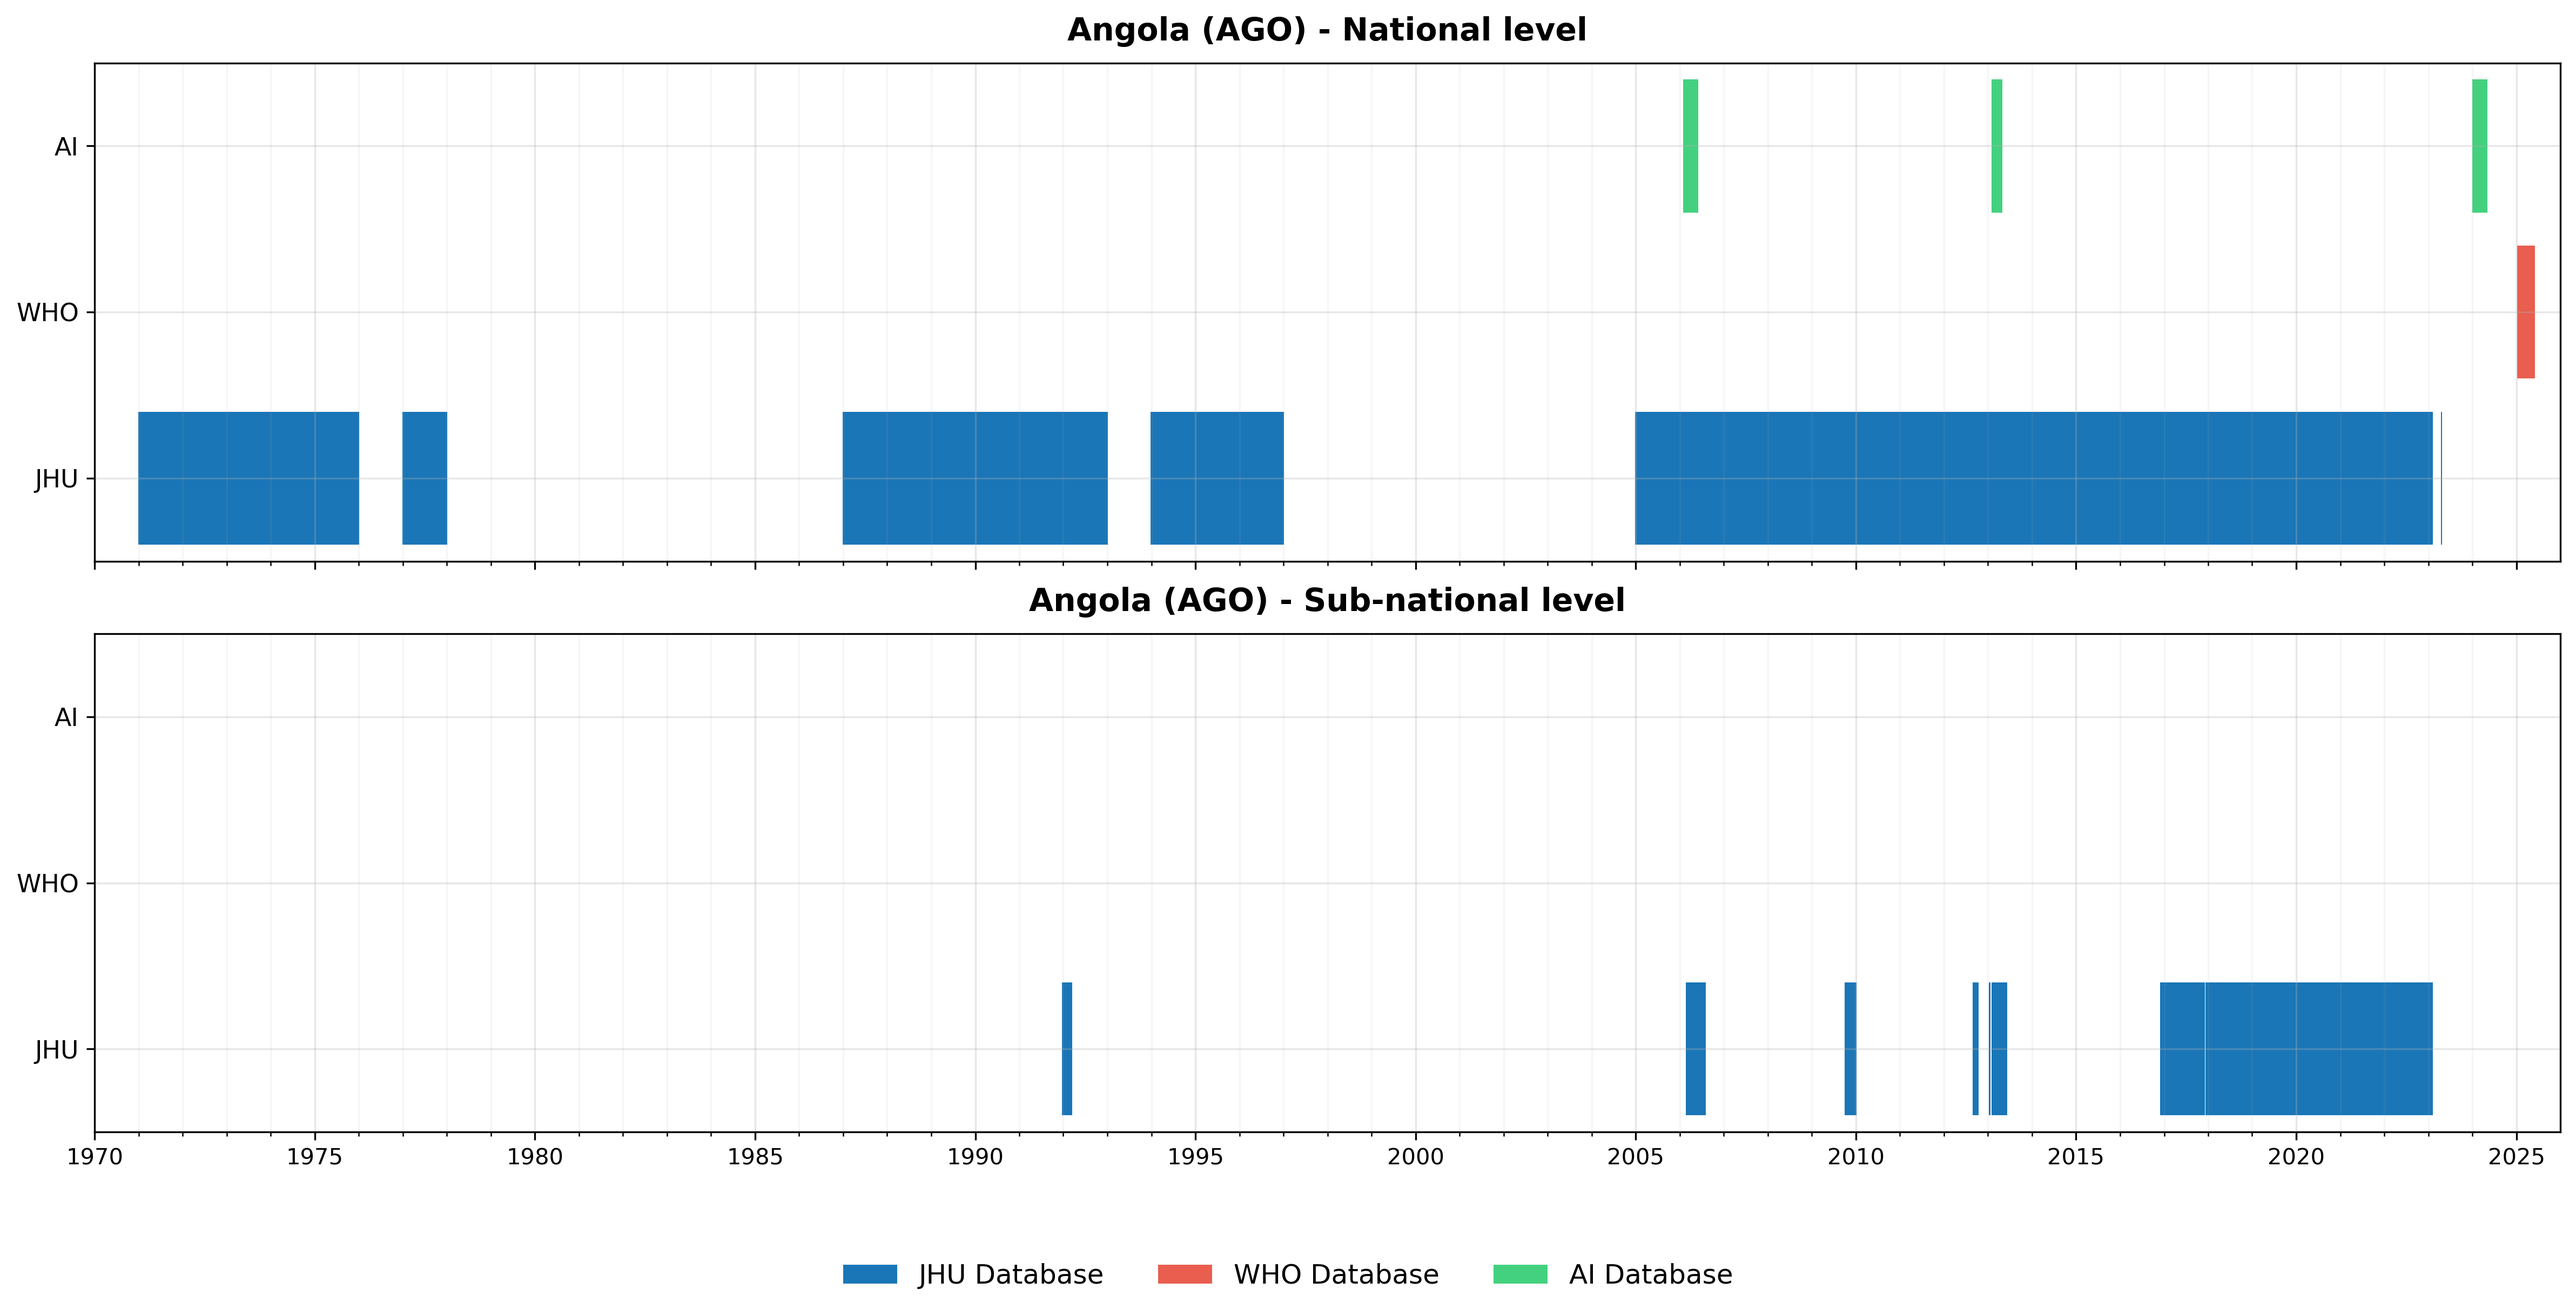
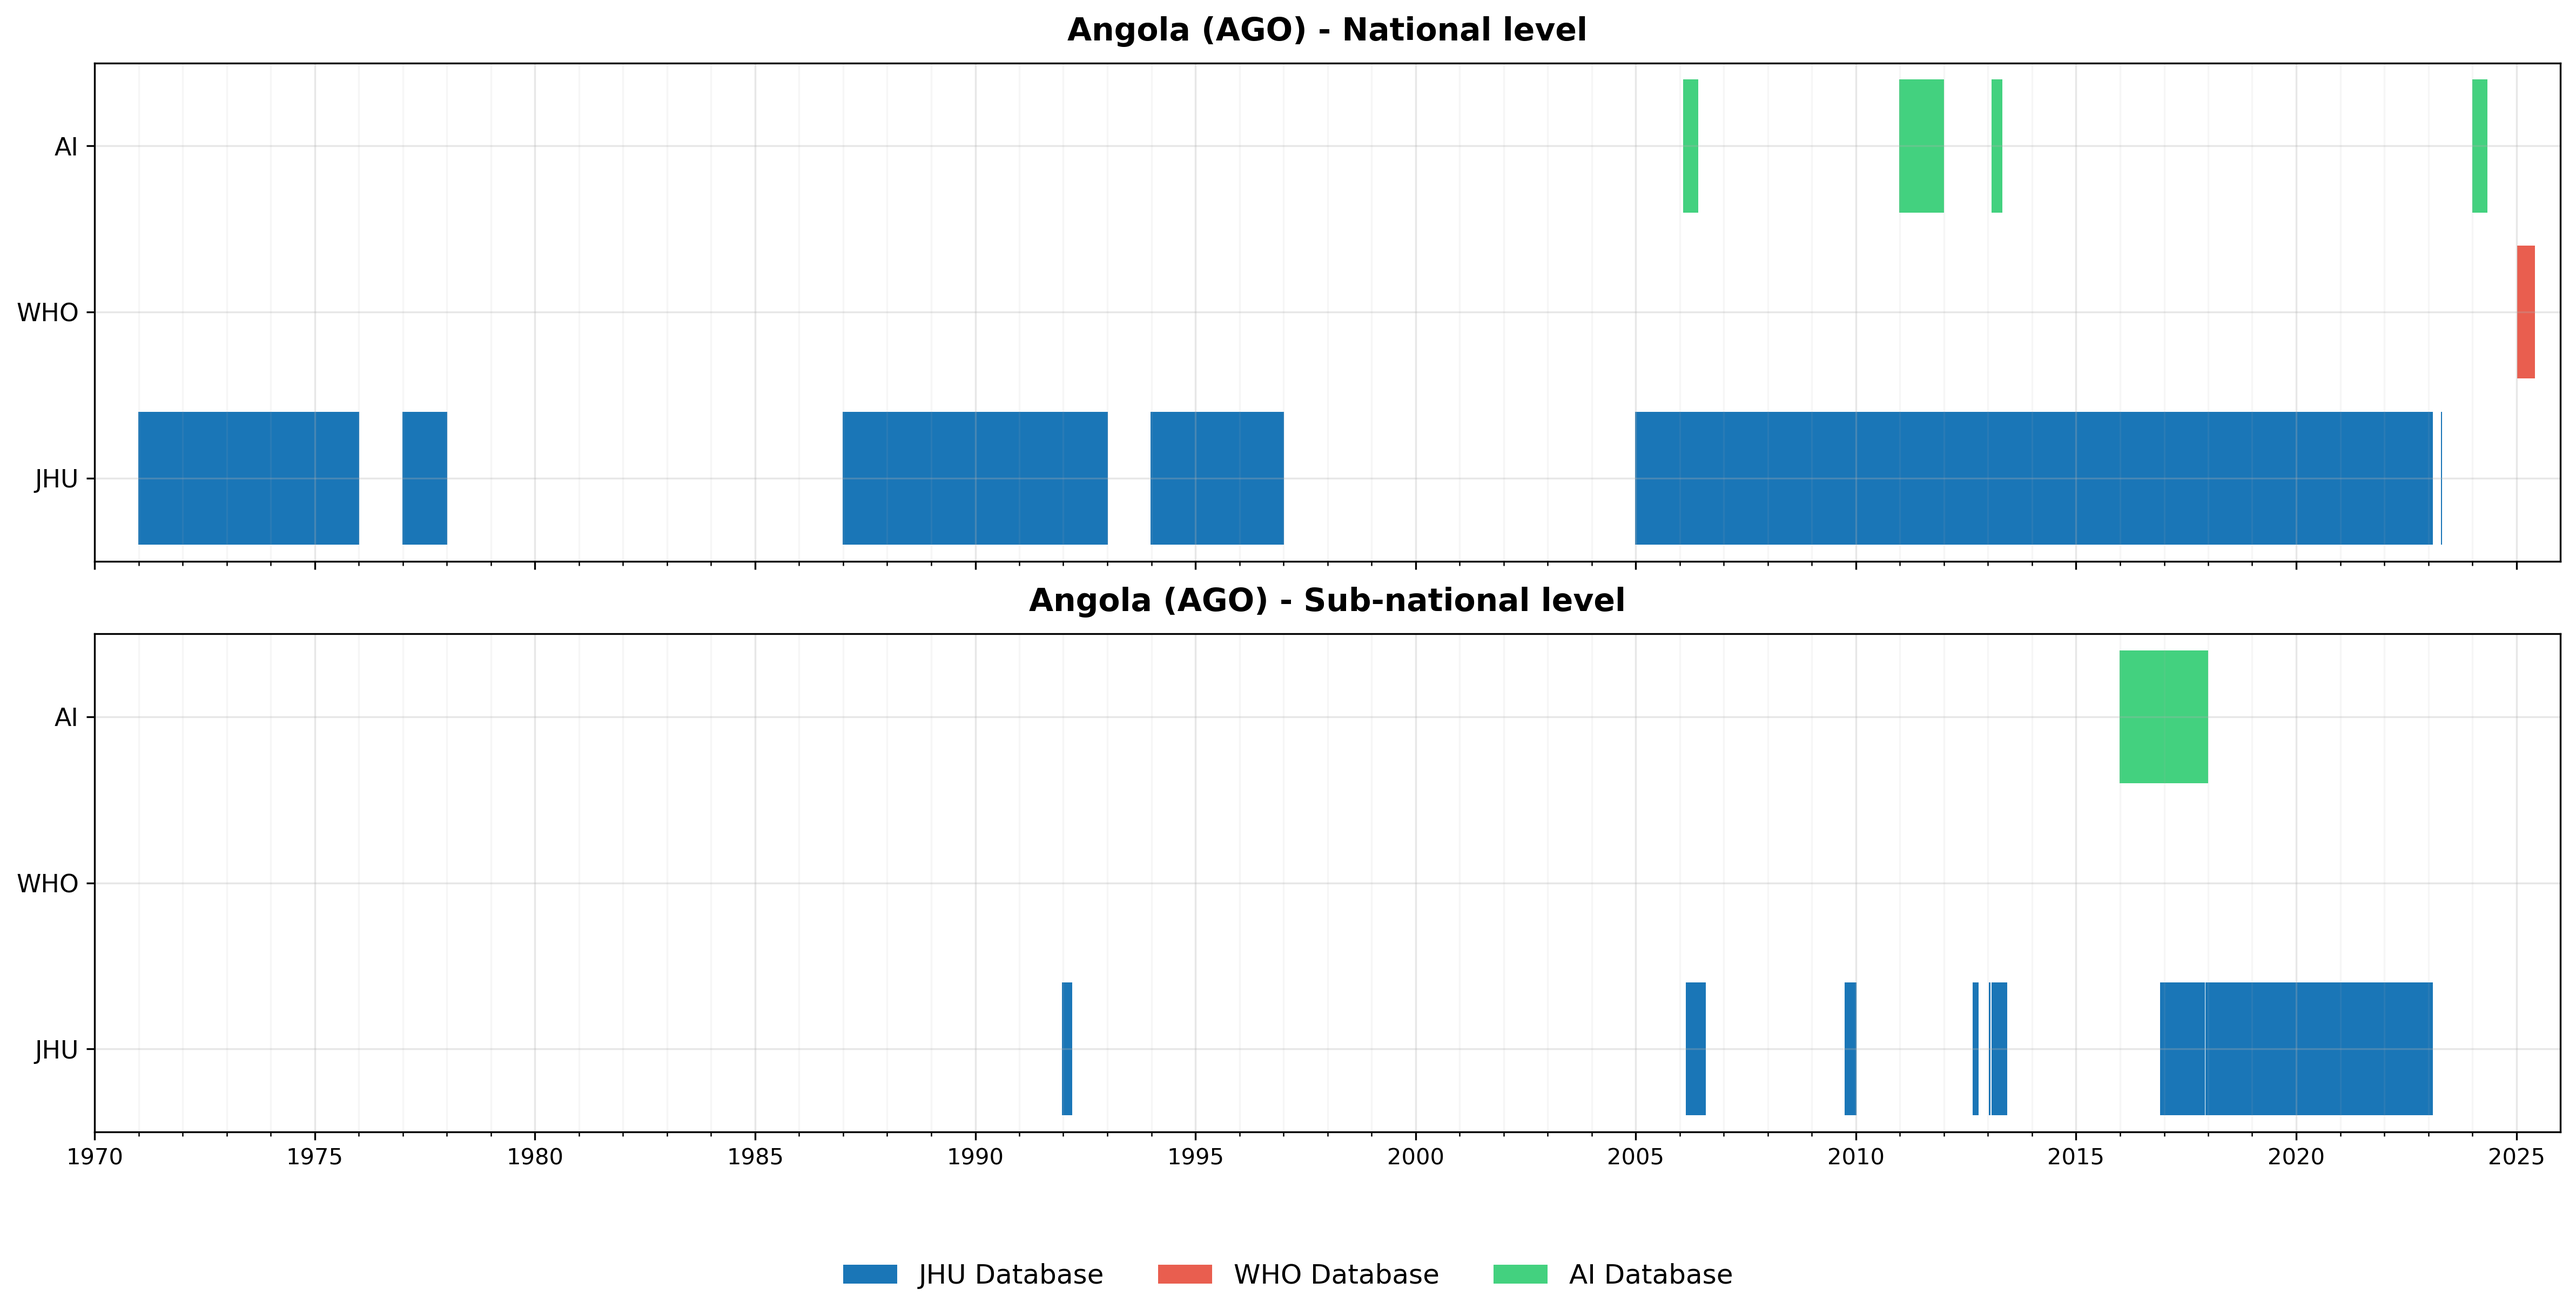
Auto-update dashboard data - 2025-08-02 19:46:40 - Generated with Claude Code

Changed region(s): [[0.8123, 0.4988, 0.8748, 0.5923], [0.7186, 0.0623, 0.7811, 0.1559]]

diff --git a/dashboard/dashboard.html b/dashboard/dashboard.html
@@ -1989,14 +1989,14 @@
                 "iso": "AGO",
                 "status": "PENDING",
                 "datetime": "2025-08-02 19:42:15",
-                "sources": 3,
-                "observations": 3,
+                "sources": 5,
+                "observations": 7,
                 "date_range": "2006-2024",
                 "priority": "HIGH",
                 "execution_time": 0,
                 "queries": 0,
                 "yield_pct": 0.0,
-                "notes": "Agent 1 completed; 3 AI data observations; Setup incomplete"
+                "notes": "Agent 1 completed; 7 AI data observations; Setup incomplete | Manual: Agent 1 completed; 3 AI data observations; Setup incomplete"
         },
         {
                 "country": "Burundi",
